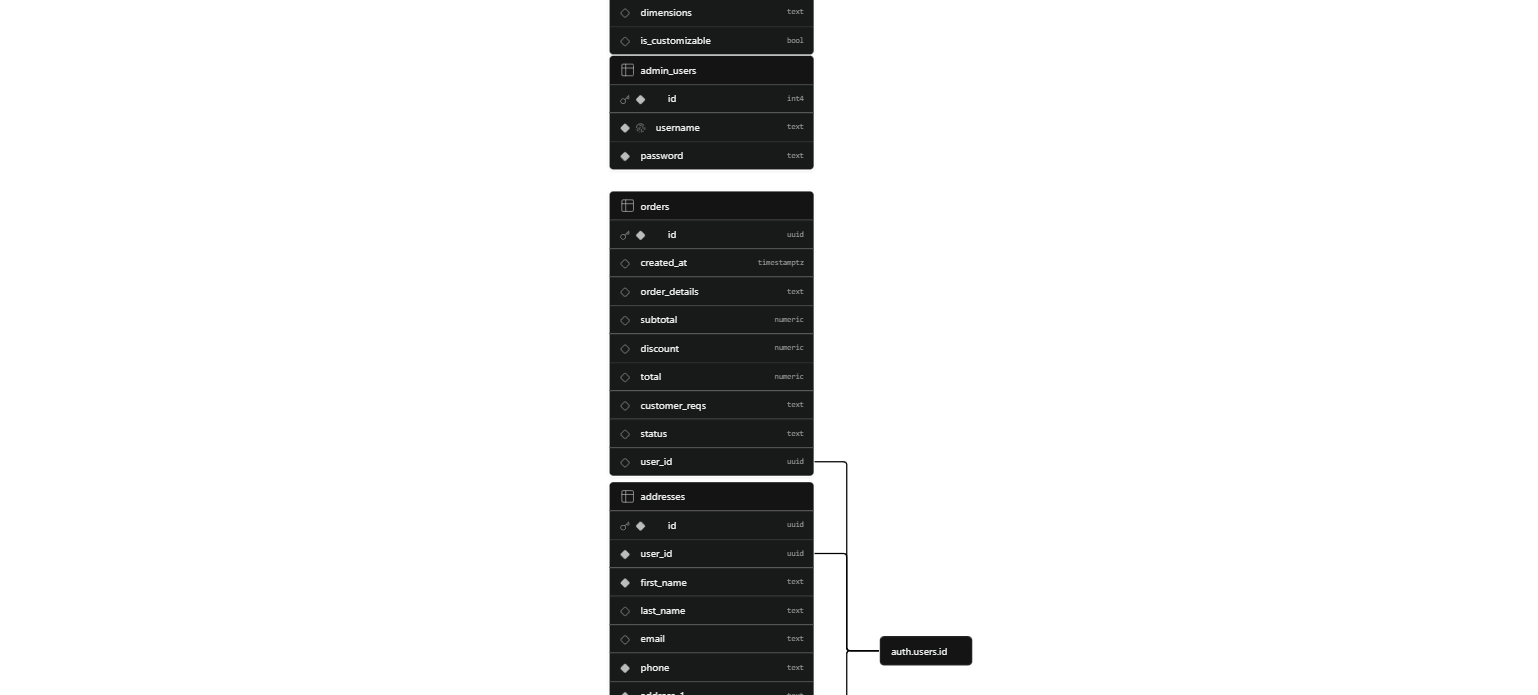
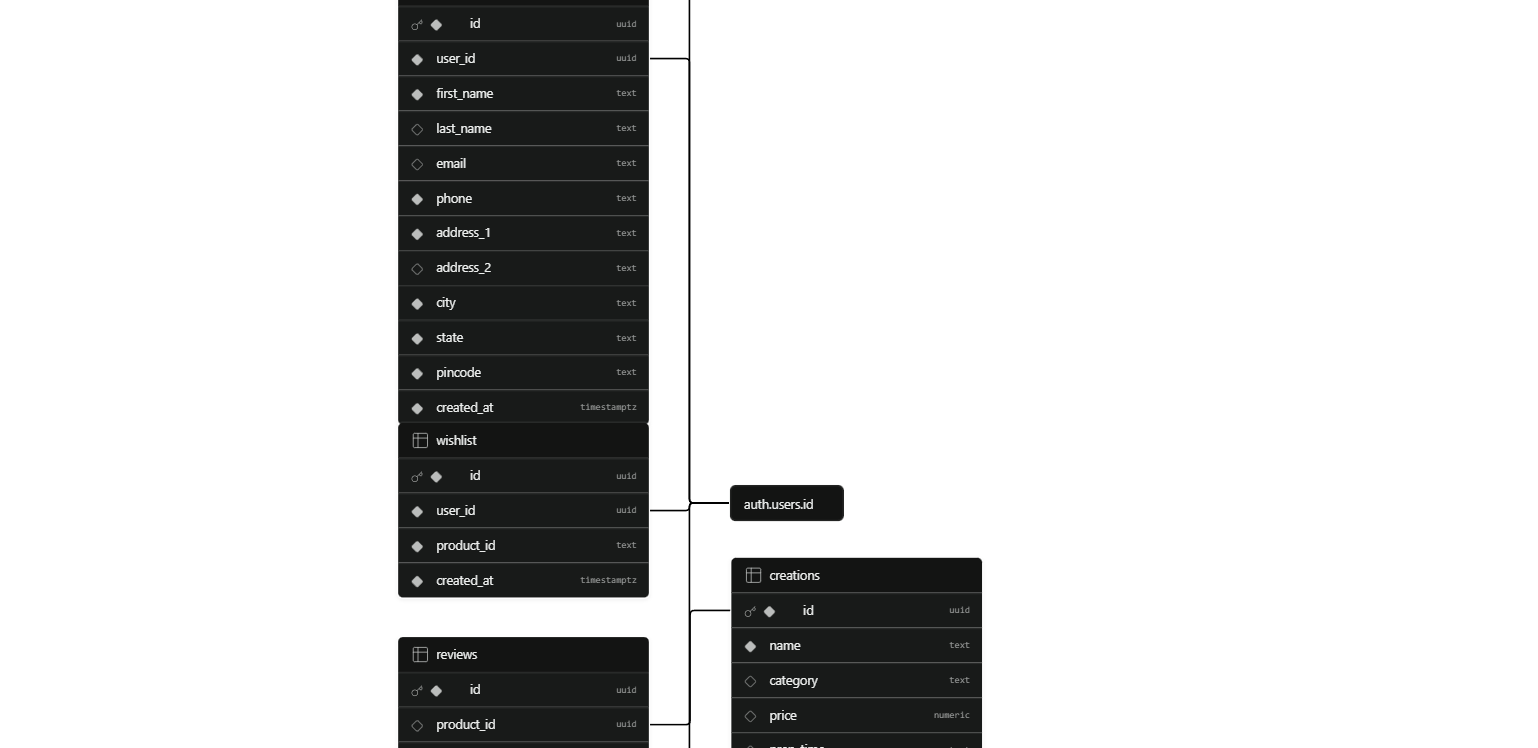
Secure review validation

Changed region(s): [[0.2497, 0.0, 0.6554, 1.0]]

diff --git a/webapp/js/app.js b/webapp/js/app.js
@@ -37,14 +37,23 @@ document.addEventListener('DOMContentLoaded', initApp);
 
 async function fetchRuntimeSettings() {
     try {
-        const { data } = await _supabase.from('store_config').select('*').limit(1);
-        if(data && data.length > 0) {
-            const cloud = data[0];
-            settings = { promoText: cloud.promo_text, promoCodes: cloud.promo_codes, storeName: cloud.store_name, instagram: cloud.instagram_url, whatsapp: cloud.whatsapp_num, upiId: cloud.upi_id, countryCode: cloud.country_code || "+91" };
+        const { data, error } = await _supabase.rpc('get_public_config');
+        if(data && !error) {
+            const cloud = data;
+            // We stringify public_offers back into promoCodes so the UI's VIP logic works natively, but coupons are completely omitted!
+            settings = { 
+                promoText: cloud.promo_text, 
+                promoCodes: JSON.stringify(cloud.public_offers || []), 
+                storeName: cloud.store_name, 
+                instagram: cloud.instagram_url, 
+                whatsapp: cloud.whatsapp_num, 
+                upiId: cloud.upi_id, 
+                countryCode: cloud.country_code || "+91" 
+            };
             localStorage.setItem('th_settings', JSON.stringify(settings));
-            window.settings = settings; // Keep the window object synced after cloud fetch
+            window.settings = settings; 
         }
-    } catch(e) { console.warn("Local storage fallback active"); }
+    } catch(e) { console.warn("Local storage fallback active", e); }
     applyDynamicSettings(); bindDOMEvents(); injectSkeletons(); fetchDatabase(); setupSocialLinks();
 }
 
@@ -389,39 +398,44 @@ window.applyCouponCode = async function() {
     const i = document.getElementById('checkout-promo-input'), f = document.getElementById('checkout-promo-feedback'); if(!i || !f) return; const c = i.value.trim().toUpperCase();
     f.textContent = "Validating..."; f.className = "text-[9px] font-bold uppercase tracking-wide mt-1.5 text-luxury-gold block";
     
-    let validCodes = [];
-    try { validCodes = JSON.parse(settings.promoCodes || '[]'); } catch(e) {}
-    const matched = validCodes.find(x => x.code === c);
-    
-    if (matched) { 
-        let isValid = true; let errMsg = "";
-        let ss = 0;
-        const listToRender = window.buyNowPayload ? [window.buyNowPayload] : cart;
-        listToRender.forEach((item) => { ss += (Number(String(item.price || 0).replace(/[^0-9.,]/g, '')) * parseInt(item.qty || 1)); }); 
+    if (!c) {
+        activeCouponValue = 0; activeCouponCode = ""; window.activeCouponType = null;
+        f.textContent = "Please enter a code."; f.className = "text-[9px] font-bold uppercase tracking-wide mt-1.5 text-red-500 block";
+        updateCheckoutUI(); return;
+    }
 
-        if (matched.condType === 'min_spend' && ss < matched.condVal) {
-            isValid = false; errMsg = `Spend ₹${matched.condVal - ss} more to unlock.`;
-        } else if (matched.condType === 'first_order') {
-            if (!currentSessionUser) { isValid = false; errMsg = "Please sign in to verify first purchase."; } 
-            else {
-                try {
-                    const { count } = await _supabase.from('orders').select('*', { count: 'exact', head: true }).eq('user_id', currentSessionUser.id);
-                    if (count > 0) { isValid = false; errMsg = "Valid for first purchase only."; }
-                } catch(e) { isValid = false; errMsg = "Network error validating coupon."; }
-            }
-        }
+    let ss = 0;
+    const listToRender = window.buyNowPayload ? [window.buyNowPayload] : cart;
+    listToRender.forEach((item) => { ss += (Number(String(item.price || 0).replace(/[^0-9.,]/g, '')) * parseInt(item.qty || 1)); }); 
+
+    try {
+        // Prepare auth header if user is signed in (needed for first_order logic)
+        const authHeaders = currentSessionUser ? { Authorization: `Bearer ${(await _supabase.auth.getSession()).data.session?.access_token}` } : {};
         
-        if (isValid) {
-            activeCouponValue = matched.val; activeCouponCode = matched.code; window.activeCouponType = matched.type;
-            f.textContent = `${matched.code} applied! ${matched.type === 'percent' ? matched.val + '% OFF' : '₹' + matched.val + ' OFF'}.`; 
+        const { data, error } = await _supabase.functions.invoke('validate-coupon', {
+            body: { couponCode: c, subtotal: ss },
+            headers: authHeaders
+        });
+
+        if (error) throw error;
+        if (data && data.error) throw new Error(data.error);
+
+        if (data && data.valid) {
+            activeCouponValue = data.discountValue; 
+            activeCouponCode = data.code; 
+            window.activeCouponType = data.type; 
+            f.textContent = `${data.code} applied! ${data.type === 'percent' ? data.val + '% OFF' : '₹' + data.val + ' OFF'}.`; 
             f.className = "text-[9px] font-bold uppercase tracking-wide mt-1.5 text-green-600 block";
         } else {
             activeCouponValue = 0; activeCouponCode = ""; window.activeCouponType = null;
-            f.textContent = errMsg; f.className = "text-[9px] font-bold uppercase tracking-wide mt-1.5 text-red-500 block";
+            f.textContent = data?.message || "Invalid Coupon Code."; 
+            f.className = "text-[9px] font-bold uppercase tracking-wide mt-1.5 text-red-500 block";
         }
-    } else { 
-        activeCouponValue = 0; activeCouponCode = ""; window.activeCouponType = null; 
-        f.textContent = "Invalid Coupon Code."; f.className = "text-[9px] font-bold uppercase tracking-wide mt-1.5 text-red-500 block"; 
+    } catch (err) {
+        console.error("Coupon Error:", err);
+        activeCouponValue = 0; activeCouponCode = ""; window.activeCouponType = null;
+        f.textContent = err.message || "Error validating coupon."; 
+        f.className = "text-[9px] font-bold uppercase tracking-wide mt-1.5 text-red-500 block";
     }
     updateCheckoutUI();
 };
@@ -871,18 +885,49 @@ const scc = (settings.countryCode || '+91'), fcp = scc + " " + rawPhone; let fa 
 };
 
 window.confirmPaymentAndOrder = async function() {
-    if(!pendingOrderPayload) return; const b = document.getElementById('btn-confirm-payment'); if(b) { b.innerHTML = '<i class="fas fa-spinner fa-spin"></i> Securing Order...'; b.disabled = true; }
+    if(!pendingOrderPayload) return; 
+    const b = document.getElementById('btn-confirm-payment'); 
+    if(b) { b.innerHTML = '<i class="fas fa-spinner fa-spin"></i> Securing Order...'; b.disabled = true; }
+    
+    const listToRender = window.buyNowPayload ? [window.buyNowPayload] : cart;
+    const itemsToProcess = listToRender.map(i => ({ id: i.id, qty: i.qty }));
+    const currentAddress = savedAddresses[selectedAddressIndex];
+    
+    // Extract raw non-financial details to allow the backend to build the order strictly
+    const commType = document.getElementById('comm-type') ? document.getElementById('comm-type').value : 'Standard Order';
+    const commColors = document.getElementById('comm-colors') ? document.getElementById('comm-colors').value.trim() : 'No notes';
+    const dims = document.getElementById('comm-dimensions') ? document.getElementById('comm-dimensions').value.trim() : '';
+    const giftNote = document.getElementById('is-gift-toggle')?.checked ? document.getElementById('comm-gift-note').value.trim() : '';
+    
+    const securePayload = {
+        items: itemsToProcess,
+        address: currentAddress,
+        orderReference: currentOrderReference,
+        couponCode: typeof activeCouponCode !== 'undefined' ? activeCouponCode : '',
+        notes: { type: commType, colors: commColors, dimensions: dims, gift: giftNote }
+    };
+
     try {
-        const { error } = await _supabase.from('orders').insert([pendingOrderPayload]);
+        const { data, error } = await _supabase.functions.invoke('create-order', {
+            body: securePayload
+        });
+        
         if (error) throw error;
-        document.getElementById('payment-gateway-view')?.classList.add('hidden'); document.getElementById('payment-gateway-view')?.classList.remove('flex'); if(document.getElementById('success-ref-note')) document.getElementById('success-ref-note').textContent = currentOrderReference; document.getElementById('payment-success-view')?.classList.remove('hidden'); document.getElementById('payment-success-view')?.classList.add('flex');
+        if (data && data.error) throw new Error(data.error);
+
+        document.getElementById('payment-gateway-view')?.classList.add('hidden'); 
+        document.getElementById('payment-gateway-view')?.classList.remove('flex'); 
+        if(document.getElementById('success-ref-note')) document.getElementById('success-ref-note').textContent = currentOrderReference; 
+        document.getElementById('payment-success-view')?.classList.remove('hidden'); 
+        document.getElementById('payment-success-view')?.classList.add('flex');
         
         if (!window.buyNowPayload) {
             cart = []; localStorage.setItem('th_cart', JSON.stringify(cart)); updateCartCount(); 
         }
         window.buyNowPayload = null;
     } catch(err) {
-        window.showToast("Error Securing Order", "fa-times", "text-red-500");
+        console.error("Order Error:", err);
+        window.showToast(err.message || "Error Securing Order", "fa-times", "text-red-500");
         if(b) { b.innerHTML = 'I Have Completed Payment <i class="fas fa-check-circle"></i>'; b.disabled = false; }
     }
 };
@@ -1118,9 +1163,28 @@ document.getElementById('review-form')?.addEventListener('submit', function(e) {
 });
 
 window.th_submitReview = async function(pid, rating, comment) {
-    const { error } = await _supabase.from('reviews').insert([{ product_id: pid, user_id: currentSessionUser.id, rating: rating, comment: comment }]);
-    if(error) window.showToast("Failed to post review", "fa-times", "text-red-500");
-    else window.showToast("Review Posted!", "fa-star", "text-luxury-gold");
+    if (!currentSessionUser) {
+        window.showToast("Please sign in to leave a review.", "fa-user-lock", "text-luxury-rose");
+        return;
+    }
+
+    try {
+        const { error } = await _supabase.from('reviews').insert([{ 
+            product_id: pid, 
+            user_id: currentSessionUser.id, 
+            rating: parseInt(rating), 
+            comment: comment.trim() 
+        }]);
+        
+        if (error) {
+            console.error("Review Security Rejection:", error);
+            window.showToast("Failed to verify qualifying purchase.", "fa-times", "text-red-500");
+        } else {
+            window.showToast("Review Posted!", "fa-star", "text-luxury-gold");
+        }
+    } catch(err) {
+        window.showToast("Network error submitting review.", "fa-wifi", "text-red-500");
+    }
 };
 
 window.generateGirlyInvoice = function(encodedOrder) {